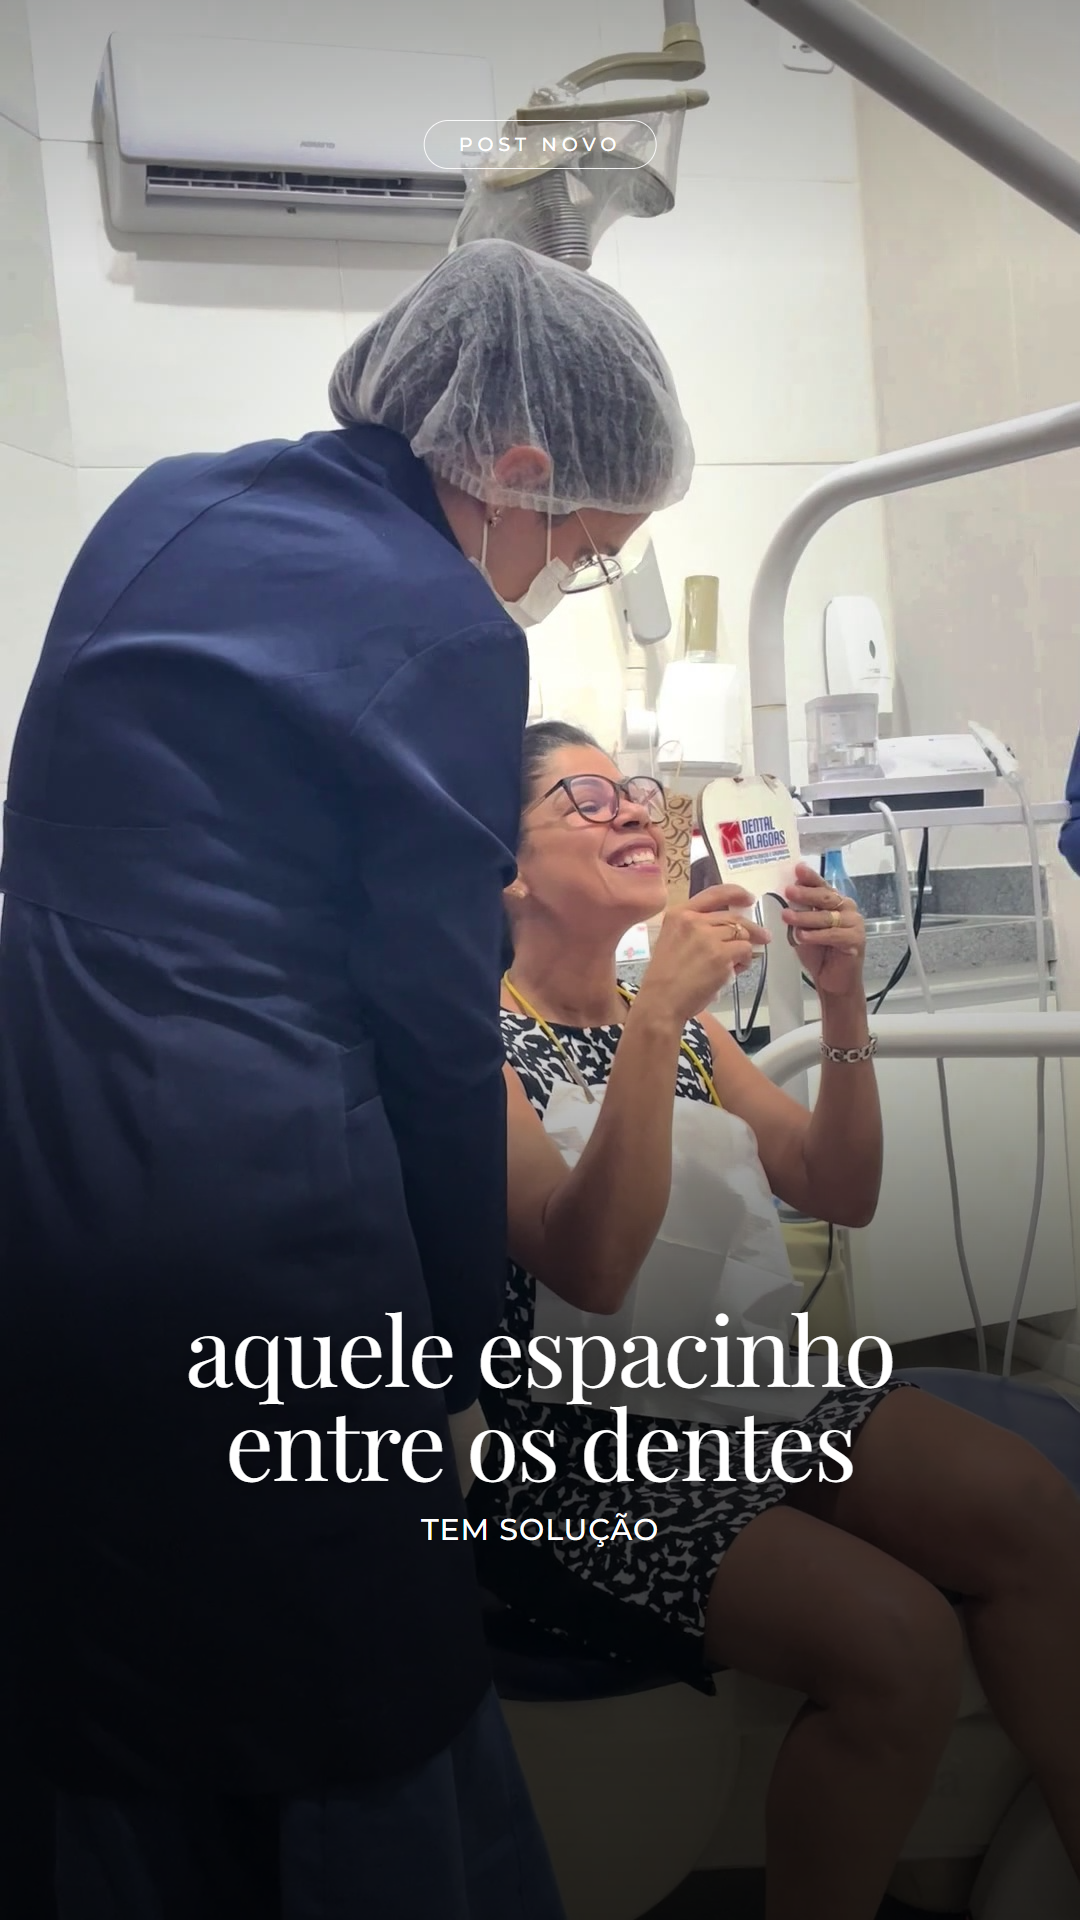
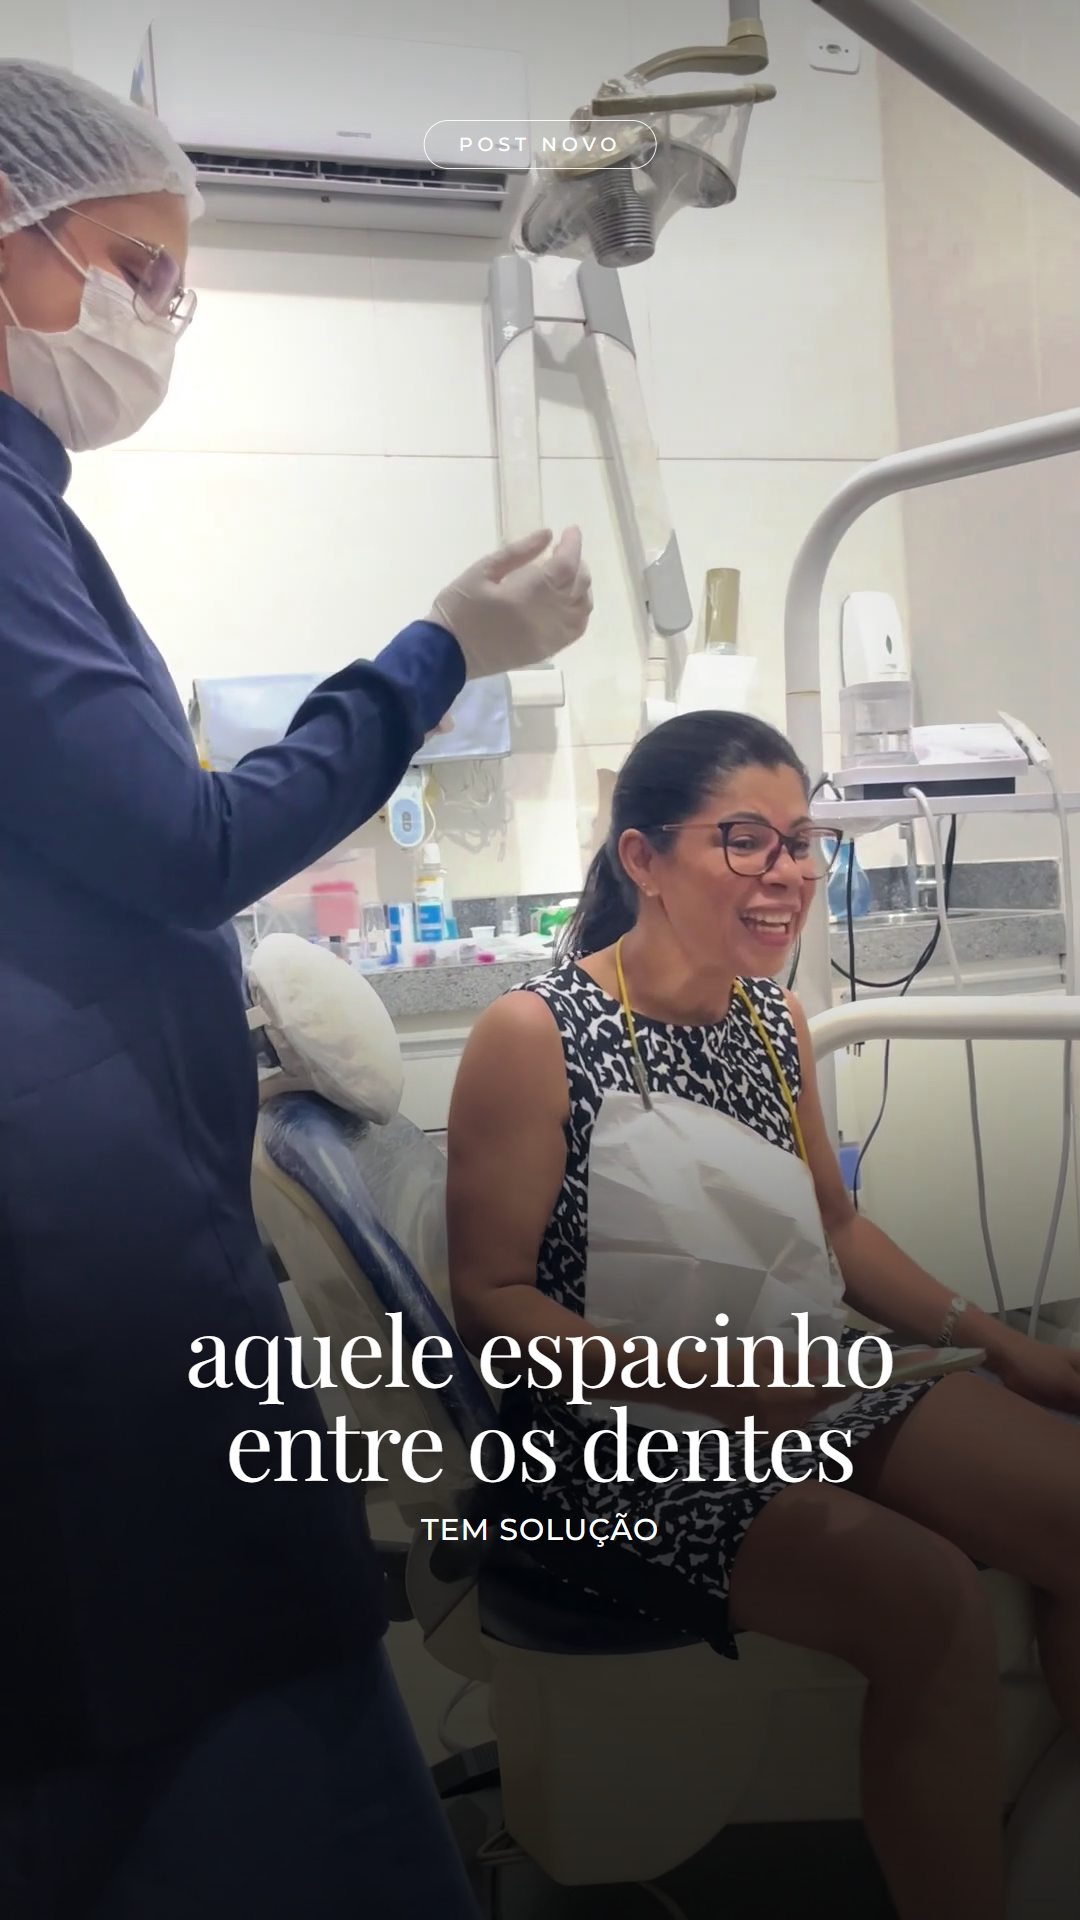
sync (dono): carrossel 16 da Camilla só com a mesma paciente + diário

diff --git a/clientes/camilla-wanderley/posts/2026-10/_diaria-22-10/gera.py b/clientes/camilla-wanderley/posts/2026-10/_diaria-22-10/gera.py
@@ -211,12 +211,13 @@ POSTS_DEF["16-espaco-entre-dentes"] = dict(
         foto(Q("IMG_6624_003-0"), "center 55%") + sombra(BAIXO_FORTE) + TOPO
         + B(820, "Com resina,<br>dá pra fechar", "", None, 84)
         + '<div class="nota sh" style="position:absolute;left:100px;top:1060px;width:660px">e ajustar o tamanho e a posição dos dentes, quando faz sentido pro seu sorriso</div>' + ARROBA,
-        foto(BANCO("0924-0372"), "center 25%") + sombra(BAIXO_FORTE)
+        # 2026-10-24: carrossel inteiro com a mesma paciente (vídeos 6624 e 6625), sem outros pacientes do banco
+        foto(Q("IMG_6624_t700-0"), "center 40%") + sombra(BAIXO_FORTE)
         + C(880, "CADA SORRISO TEM <b>O SEU PLANO</b>", "o seu começa<br>na avaliação", "me chama no direct", 108) + ARROBA,
     ],
-    stories=[(Q("IMG_6624_003-0"), "center 55%", "post novo", "aquele espacinho entre os dentes", "tem solução"),
-             (BANCO("0924-0355"), "center 25%", "resina", "dá pra fechar com resina", "quando faz sentido pro seu sorriso"),
-             (BANCO("0903-0163"), "center 25%", "avaliação", "me chama no direct", "e vem conversar comigo")],
+    stories=[(Q("IMG_6624_t550-0"), "center 50%", "post novo", "aquele espacinho entre os dentes", "tem solução"),
+             (Q("IMG_6625_020-0"), "center 50%", "resina", "dá pra fechar com resina", "quando faz sentido pro seu sorriso"),
+             (Q("IMG_6624_t390-0"), "center 50%", "avaliação", "me chama no direct", "e vem conversar comigo")],
 )
 
 

diff --git a/_contexto/preferencias.md b/_contexto/preferencias.md
@@ -19,6 +19,6 @@ Resposta curta, com o próximo passo claro. Uma pergunta por vez; se ela não en
 - **OODA antes de todo conteúdo (regra fixa, 2026-10-08):** antes de propor ou produzir qualquer post, vídeo ou tema, o agente observa (pedido + números do perfil), orienta (fase, função no caminho, crença, persona e o filtro de publicação da estratégia), decide e diz claramente: **entra / entra ajustado / não entra, e por quê**. Pedido da Talyta não é motivo suficiente: se o conteúdo não serve à estratégia do momento, o agente diz isso com critério, em vez de só executar.
 - Regras que valem pra todos os clientes (zonas seguras do reels, stories por post, entrega no Drive, artes com foto, informação que não temos, norma de conselho): `clientes/_regras.md`. (2026-10-13)
 - **/atualizar e /syncar automáticos (2026-10-22):** ao terminar cada atividade, rodar os dois sem pedir permissão; em atividade longa, rodar também no meio. Substitui a oferta de "rodo o /atualizar?" da seção 8 do `AGENTS.md`.
-- **Fotos de post e carrossel (2026-10-24):** nada de olho fechado, piscando, borrado ou esteticamente feio; nenhuma imagem repetida dentro do mesmo carrossel (stories incluídos). Quando o vídeo não rende quadro bom, completar com o banco de fotos do cliente.
+- **Fotos de post e carrossel (2026-10-24):** nada de olho fechado, piscando, borrado ou esteticamente feio; nenhuma imagem repetida dentro do mesmo carrossel (stories incluídos). Quando o vídeo não rende quadro bom, completar com o banco de fotos do cliente. Carrossel que conta a história de uma pessoa usa só fotos dela (ou do profissional), nunca outro paciente do banco (2026-10-24).
 - **Carrossel de feedback (2026-10-24):** não repetir o que a pessoa falou no depoimento. Virar um tema do perfil ligado ao feedback (ex.: medo de dentista → um pouco da história dela → fecho prático; atendimento humanizado → trauma de dentista), sempre com o banco de imagens.
 - Montagem de antes e depois (2026-10-17): recorte limpo sobre o preto, **sem degradê/esfumado nas bordas**, sobreposição seca (uma pessoa um pouco à frente da outra), rostos grandes, no mesmo tamanho e centralizados; perfis em pé. Foto cortada (nuca, ombro) não se disfarça com fade: troca a foto ou o ângulo.

diff --git a/_memoria/diario/2026-10-24.md b/_memoria/diario/2026-10-24.md
@@ -2,3 +2,8 @@
 - 6 carrosséis na estética "foto editorial" + 3 stories cada, com legenda na voz dela: 11 bastidores de uma quinta na CIP (5), 12 feedback Robervânia (3), 13 feedback "medo de dentista" (3), 14 clareamento antes do casamento (5), 15 clareamento caseiro · o erro que zera tudo (5), 16 espaço entre os dentes (3). Gerador: `clientes/camilla-wanderley/posts/2026-10/_diaria-22-10/gera.py`.
 - Fotos: quadros dos vídeos da diária (já com o color grade) e fotos 6577/6580; nada de procedimento em andamento nem instrumental (CFO 196/2019). O banco de 03/09 e 24/09 é quase todo de procedimento.
 - Entregue no Drive em POSTS/2026-10/<post>/ (PNGs + legenda.txt). Falta: datas de publicação, termos de autorização e o CRO.- v2 dos posts (pedido da Talyta): feedbacks viraram 12 · atendimento humanizado e trauma de dentista e 13 · medo de dentista (5 slides cada, legendas novas, sem transcrever o depoimento); fotos de olho fechado/piscando trocadas, banco de fotos com o color grade entrando nos carrosséis, nenhuma imagem repetida no mesmo carrossel. v1 dos feedbacks arquivada no Drive em POSTS/2026-10/_ARQUIVO.
+
+## 09:37 · [dono] · Dra. Camilla Wanderley (carrossel 16 refeito)
+- Galeria privada dos 6 carrosséis publicada pra revisão: https://claude.ai/artifact/SuaeYbrAzSikieoavqoPLw
+- 16 · espaço entre os dentes: slide 3 e stories 2 e 3 tinham outros pacientes do banco, e o story 1 repetia o slide 2. Trocados por quadros da mesma paciente (vídeos 6624 t700/t550/t390 e 6625_020). Drive atualizado.
+- O banco do Drive (03/09, 24/09, 22/10) não tem foto da doutora sozinha: todas têm paciente.

diff --git a/clientes/camilla-wanderley/andamento.md b/clientes/camilla-wanderley/andamento.md
@@ -19,7 +19,8 @@
   caseiro (com gráficos em vidro) e espaço entre os dentes (resina). Edição em `edicao/2026-10-22/`.
 
 - 2026-10-24 · 6 carrosséis + 3 stories cada dos conteúdos da diária de 22/10 (posts 11 a 16, `posts/2026-10/`; v2 com os feedbacks como tema: 12 atendimento humanizado, 13 medo de dentista),
-  com legenda; no Drive em `POSTS/2026-10`. Aguardam datas de publicação.
+  com legenda; no Drive em `POSTS/2026-10`. Aguardam datas de publicação. O 16 foi refeito no mesmo dia só com a
+  paciente do vídeo (6624/6625).
 
 ## Em aberto
 - **Vídeo do implante (diária 22/10):** falta a animação realista (FLUX + Wan 2.2, cota grátis diária do Hugging Face,
@@ -27,6 +28,7 @@
 - **Antes de publicar os vídeos de 22/10:** termo de autorização de imagem da Robervânia, da colaboradora da CIP, da noiva e da
   mãe, da paciente do espelho (6624), da paciente da resina (6625) e da foto 6577. CRO da doutora na assinatura. (2026-10-23)
 - Conferir na legenda da colaboradora a palavra "abraçada" (a transcrição ouviu "apressada"). (2026-10-23)
+- Falta foto da doutora sozinha no banco (retrato, sem paciente): pedir na próxima diária. (2026-10-24)
 - Os 19 B-rolls no Drive estão sem o color grade novo; refazer com `grade.py` se forem usados. (2026-10-23)
 - Reels "Depoimento da Mari" v4 (close da boca, pós aparelho, fotos do casamento) só existe no notebook; postar quando ligar. (2026-10-23)
 - Calendário de outubro/2026 (10 posts, 2 por semana) escrito em `calendarios/2026-10-calendario.md`; falta o PDF e as artes.
